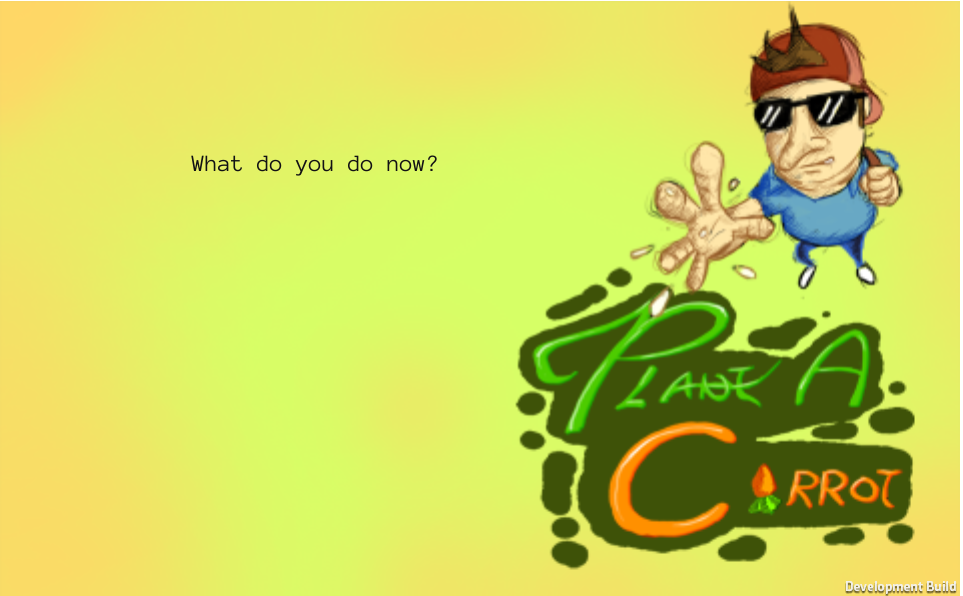
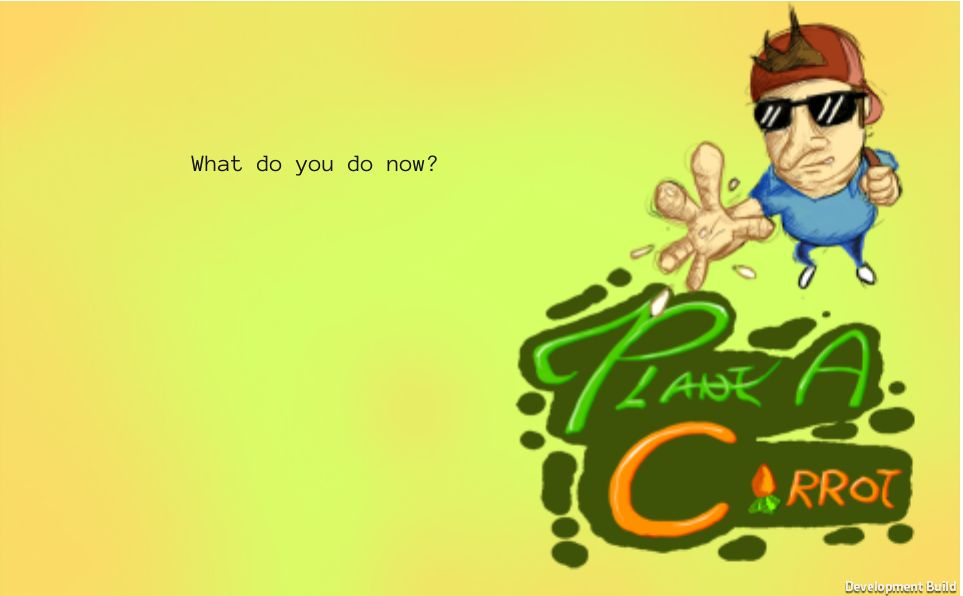
Compressed all of the image.

Changed region(s): [[0.0, 0.0, 1.0, 1.0], [0.1869, 0.2718, 0.4361, 0.302], [0.8723, 0.4228, 0.9034, 0.453]]

diff --git a/_includes/footer.html b/_includes/footer.html
@@ -1,32 +1,32 @@
 <div class="icon-container">
   {% if site.github_username %}
-  
+
     <a class='icon--github' href="https://github.com/{{ site.github_username }}">
-        <img src="/assets/icons/git.png" alt="git">
+        <img src="/assets/icons/git.jpg" alt="git">
     </a>
   {% endif %}
 
   {% if site.twitter_username %}
     <a class='icon--twitter' href="https://twitter.com/{{ site.twitter_username }}">
-        <img src="/assets/icons/twitter.png" alt="twitter">
+        <img src="/assets/icons/twitter.jpg" alt="twitter">
     </a>
   {% endif %}
-  
+
   {% if site.facebook_username %}
     <a class='icon--facebook' href="https://facebook.com/{{ site.facebook_username }}">
-        <img src="/assets/icons/facebook.png" alt="facebook">
+        <img src="/assets/icons/facebook.jpg" alt="facebook">
     </a>
   {% endif %}
-  
+
   {% if site.instagram_username %}
     <a class='icon--instagram' href="https://instagram.com/{{ site.instagram_username }}">
-        <img src="/assets/icons/instagram.png" alt="instagram">
+        <img src="/assets/icons/instagram.jpg" alt="instagram">
     </a>
   {% endif %}
-  
+
   {% if site.linkedin_username %}
     <a class='icon--linkedin' href="https://linkedin.com/pub/trevor-ware/71/142/494">
-        <img src="/assets/icons/linkedin.png" alt="linkedin">
+        <img src="/assets/icons/linkedin.jpg" alt="linkedin">
     </a>
   {% endif %}
 

diff --git a/games/_posts/2015-01-25-plantacarrot.md b/games/_posts/2015-01-25-plantacarrot.md
@@ -1,12 +1,12 @@
 ---
 layout: game
 title: Plant a Carrot
-image: /assets/plant_a_carrot/carrot_banner_small.png
+image: /assets/plant_a_carrot/carrot_banner_small.jpg
 desc: "What do you do now? Plant a carrot."
 tag: Games
 gallery: plantacarrotGallery
 ---
-In the middle of a hunger crisis, you and your trusty farming satchel are the only hope for humanity. What do you do now? In Plant a Carrot, you solve world hunger one carrot at a time. As you plant carrots, world hunger goes down, but if plant an evil carrot you actually harm humanity. 
+In the middle of a hunger crisis, you and your trusty farming satchel are the only hope for humanity. What do you do now? In Plant a Carrot, you solve world hunger one carrot at a time. As you plant carrots, world hunger goes down, but if plant an evil carrot you actually harm humanity.
 
 This game was developed by a team of four during the Vancouver Global Game Jam. The theme for the Game Jam was "What do you do now?". For this game, I handled programming the animations, the design of the world, as well as the placement of the carrots. The game can be viewed <a href="http://globalgamejam.org/2015/games/plant-carrot">here</a> and played <a href="http://gamejolt.com/games/other/plant-a-carrot/46324/">here</a>.
 

diff --git a/software/_posts/2014-04-05-facialrecognition.md b/software/_posts/2014-04-05-facialrecognition.md
@@ -1,7 +1,7 @@
 ---
 layout: software
 title: Facial Recognition
-image: /assets/facial_recognition/facial_recognition_banner_small.png
+image: /assets/facial_recognition/facial_recognition_banner_small.jpg
 desc: "See who's face you match most with."
 tag: Software
 gallery: facialrecognitionGallery

diff --git a/software/_posts/2014-02-01-imagemorpher.md b/software/_posts/2014-02-01-imagemorpher.md
@@ -1,7 +1,7 @@
 ---
 layout: software
 title: Image Morpher
-image: /assets/image_morpher/image_morpher_banner_small.png
+image: /assets/image_morpher/image_morpher_banner_small.jpg
 desc: "Ever wanted to see two faces merged together?"
 tag: Software
 gallery: imagemorpherGallery

diff --git a/games/_posts/2015-04-09-viking_twelve.md b/games/_posts/2015-04-09-viking_twelve.md
@@ -1,7 +1,7 @@
 ---
 layout: game
 title: "Viking XII: A Space Odyssey"
-image: /assets/viking_twelve/viking_banner_small.png
+image: /assets/viking_twelve/viking_banner_small.jpg
 desc: "Vikings and Grayliens clash in a war of hats."
 tag: Games
 gallery: vikingGallery

diff --git a/software/_posts/2013-12-03-waveeditor.md b/software/_posts/2013-12-03-waveeditor.md
@@ -1,7 +1,7 @@
 ---
 layout: software
 title: Wave Editor
-image: /assets/wave_editor/wave_editor_banner_small.png
+image: /assets/wave_editor/wave_editor_banner_small.jpg
 desc: "Record, analyse, filter, and edit sound files."
 tag: Software
 gallery: waveeditorGallery

diff --git a/games/_posts/2014-06-30-sidekicktales.md b/games/_posts/2014-06-30-sidekicktales.md
@@ -1,7 +1,7 @@
 ---
 layout: game
 title: "Sidekick Tales: Limbitless"
-image: /assets/sidekick/sidekick_banner_small.png
+image: /assets/sidekick/sidekick_banner_small.jpg
 desc: "Become a hero to save the legendary Supman."
 tag: Games
 gallery: sidekickGallery

diff --git a/games/_posts/2013-12-10-findaword.md b/games/_posts/2013-12-10-findaword.md
@@ -1,7 +1,7 @@
 ---
 layout: game
 title: Find A Word
-image: /assets/find_a_word/find_a_word_banner_small.png
+image: /assets/find_a_word/find_a_word_banner_small.jpg
 desc: "An endless amount of words to find."
 tag: Games
 gallery: findawordGallery

diff --git a/games/_posts/2014-05-30-bloodloss.md b/games/_posts/2014-05-30-bloodloss.md
@@ -1,7 +1,7 @@
 ---
 layout: game
 title: Blood Loss
-image: /assets/blood_loss/blood_loss_banner_small.png
+image: /assets/blood_loss/blood_loss_banner_small.jpg
 desc: "Escape before your blood runs dry."
 tag: Games
 gallery: bloodlossGallery

diff --git a/software/_posts/2014-12-05-chitchat.md b/software/_posts/2014-12-05-chitchat.md
@@ -1,7 +1,7 @@
 ---
 layout: software
 title: ChitChat
-image: /assets/chitchat/chit_chat_banner_small.png
+image: /assets/chitchat/chit_chat_banner_small.jpg
 desc: "Chat with your friends!"
 tag: Software
 gallery: chitchatGallery

diff --git a/games/_posts/2012-03-27-IJGML.md b/games/_posts/2012-03-27-IJGML.md
@@ -1,7 +1,7 @@
 ---
 layout: game
 title: "I Just Got My L"
-image: /assets/ijgml/ijgml_banner_small.png
+image: /assets/ijgml/ijgml_banner_small.jpg
 desc: "Try not to crash."
 tag: Games
 gallery: ijgmlGallery

diff --git a/games/_posts/2014-12-18-cluck.md b/games/_posts/2014-12-18-cluck.md
@@ -1,7 +1,7 @@
 ---
 layout: game
 title: Cluck
-image: /assets/cluck/cluck_banner_small.png
+image: /assets/cluck/cluck_banner_small.jpg
 desc: "Clucking great!"
 tag: Games
 gallery: cluckGallery
